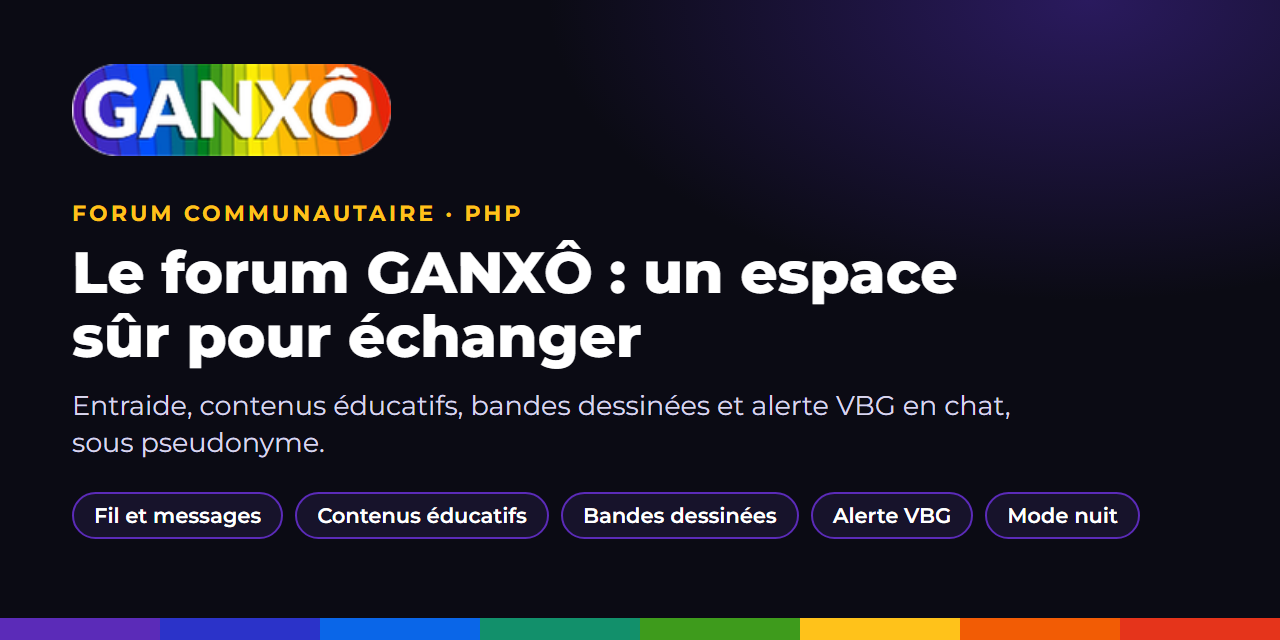
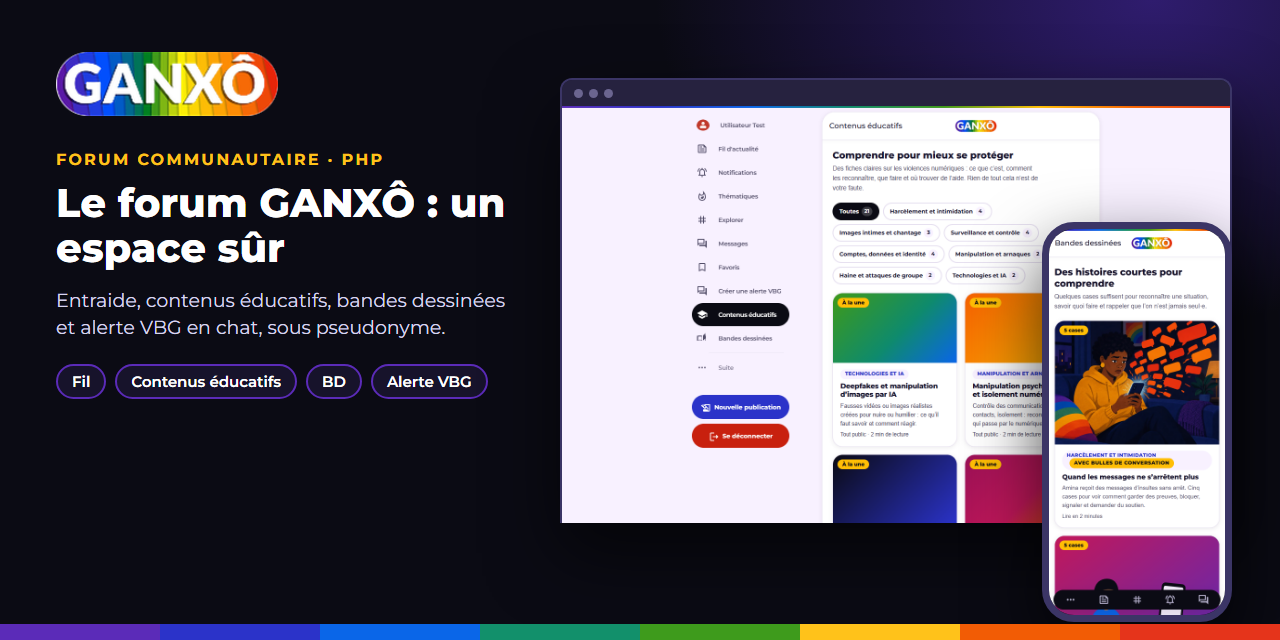
Aperçu social : captures réelles en cadres ordinateur et téléphone

diff --git a/README.md b/README.md
@@ -1,4 +1,4 @@
-<p align="center"><img src="docs/social-preview.png" alt="Forum GANXÔ : un espace sûr pour échanger, contenus éducatifs, bandes dessinées et alerte VBG en chat" width="100%"></p>
+<p align="center"><img src="docs/social-preview.png" alt="Forum GANXÔ : le logo, le slogan et deux captures du forum sur ordinateur (contenus éducatifs) et sur téléphone (bandes dessinées)" width="100%"></p>
 
 # GANXÔ · Forum
 
